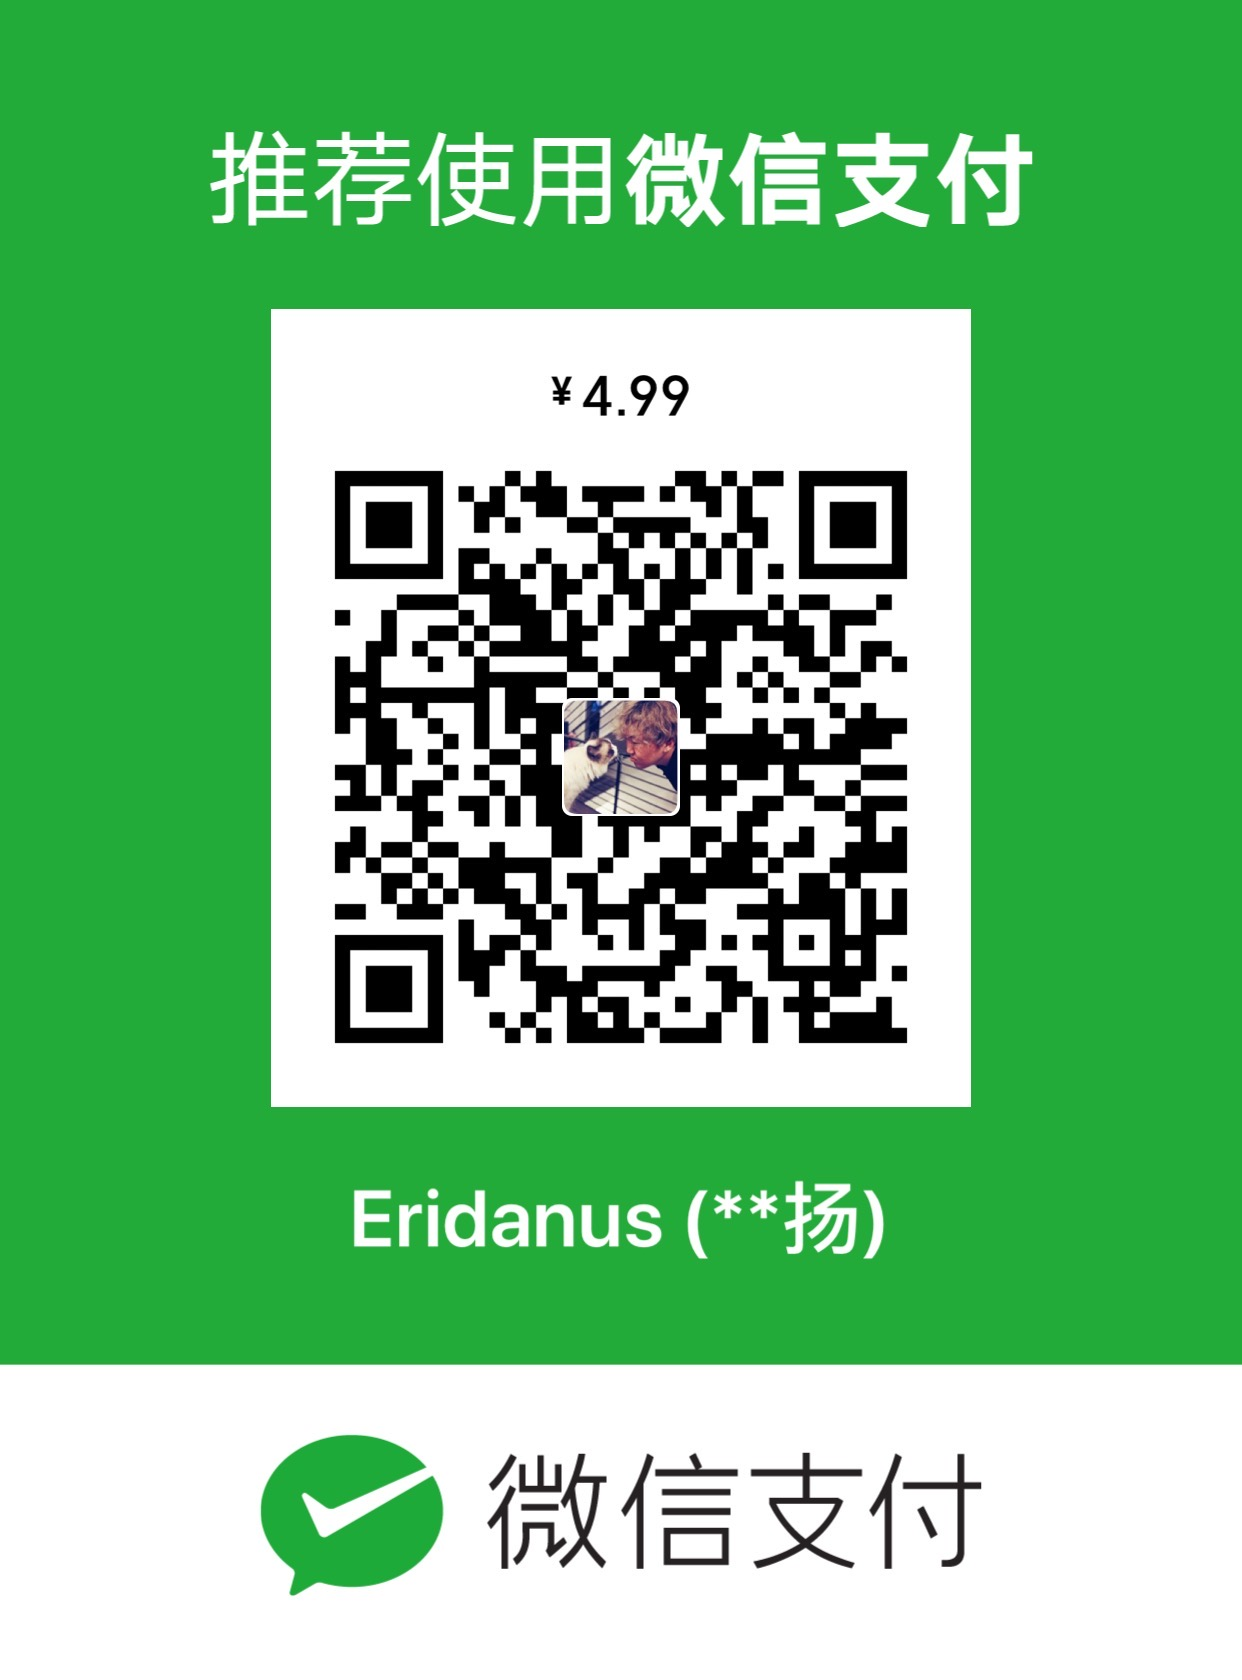
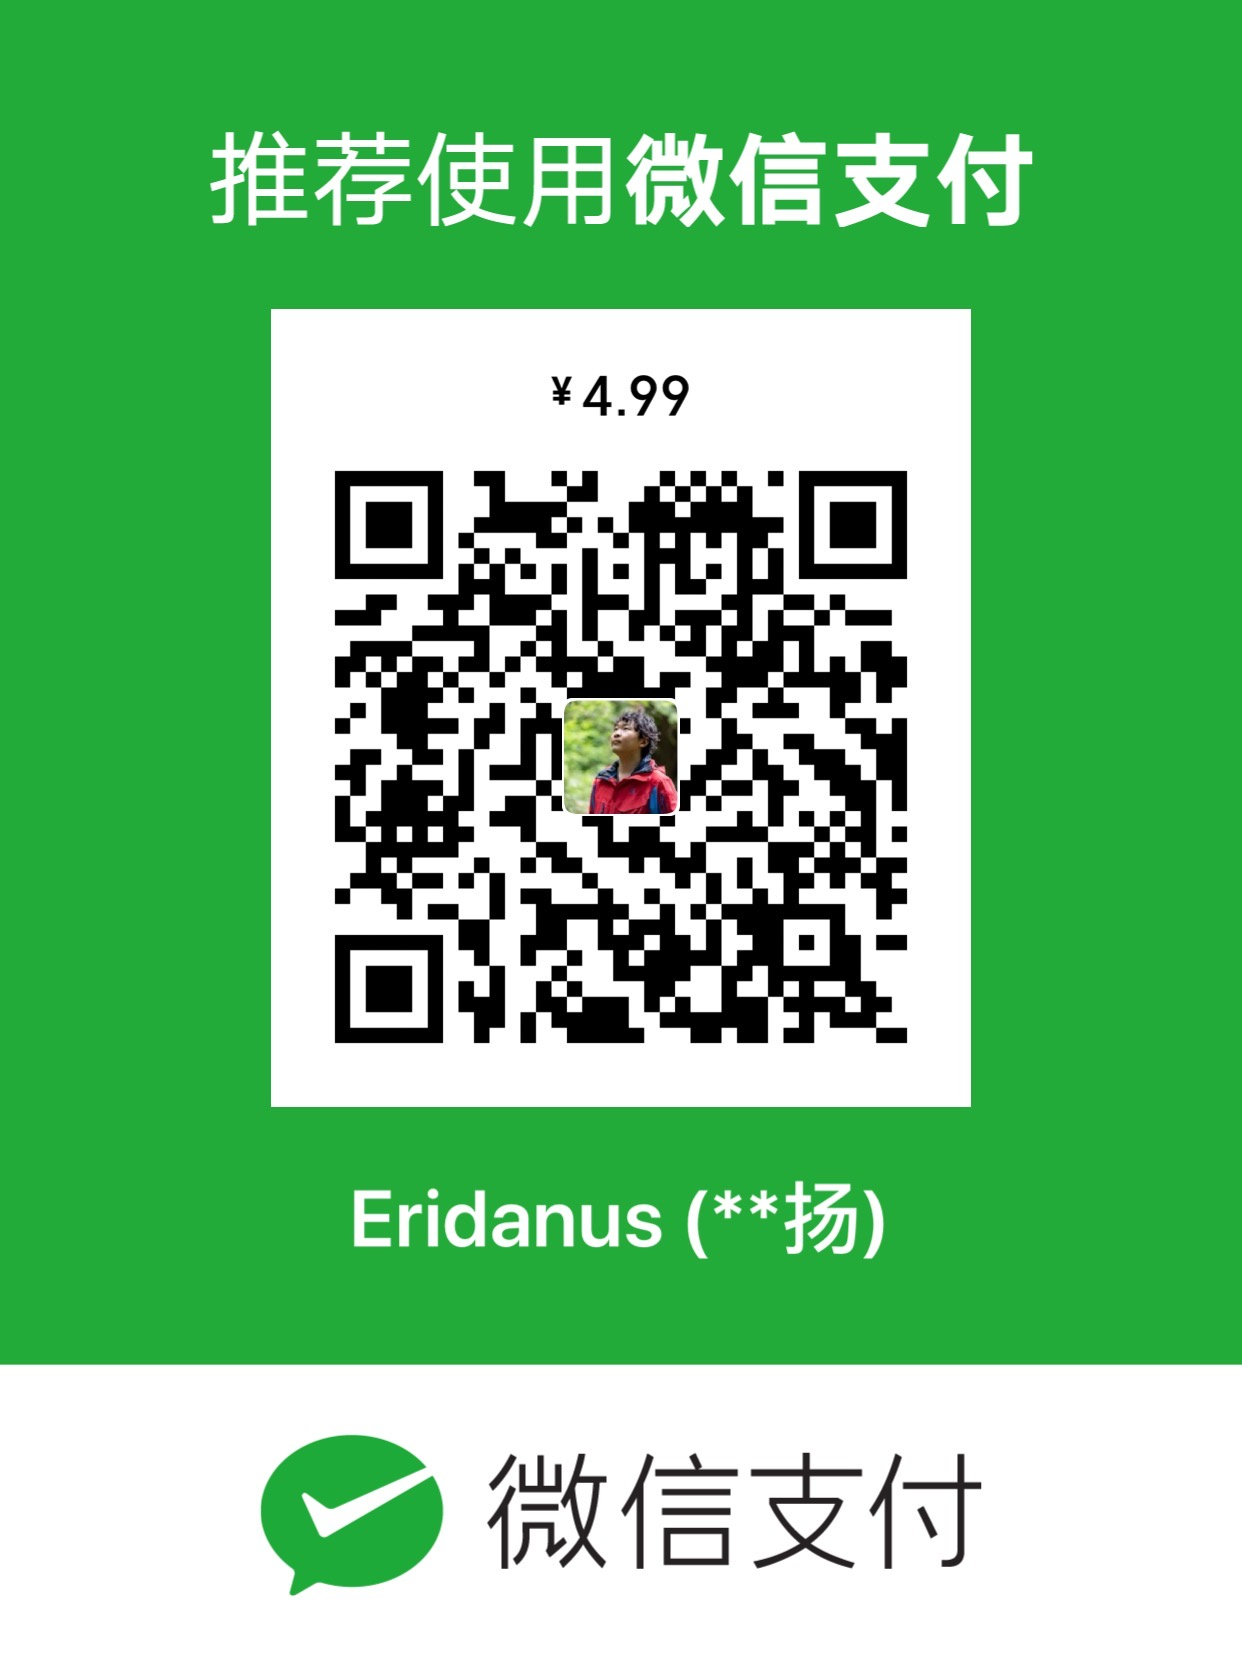
update
Former-commit-id: 5f801b328005708fa74eb29111cc4d95b4e212df

Changed region(s): [[0.2448, 0.2786, 0.7343, 0.619]]

diff --git a/src/App.tsx b/src/App.tsx
@@ -23,6 +23,7 @@ import RadioGroup from "@material-ui/core/RadioGroup";
 import Slider from "@material-ui/core/Slider";
 
 import WeChatDonation from "./donation_wechat.jpg";
+import WechatQR from "./wechat_qr.jpg"
 
 const JSON5_URL =
   "https://raw.githubusercontent.com/vicdus/uscis-case-statistics/master/src/data.json5";
@@ -255,6 +256,12 @@ function App() {
       <p>A: 感谢！</p>
       <img
         src={WeChatDonation}
+        alt='wechat_donation'
+        style={{ width: "400px", height: "560px" }}
+      />
+      <h4>Q: 我想和你聊一聊？</h4>
+      <img
+        src={WechatQR}
         alt='wechat_donation'
         style={{ width: "400px", height: "560px" }}
       />
